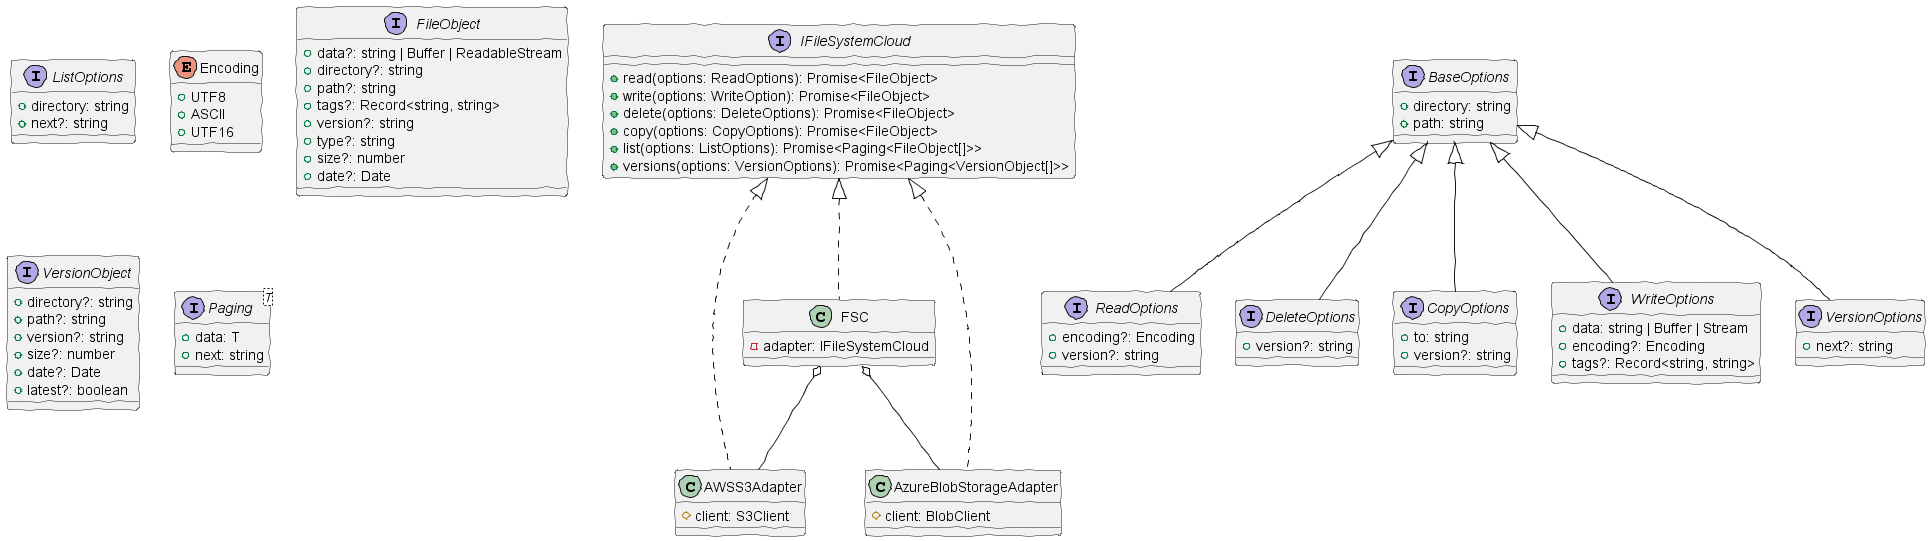
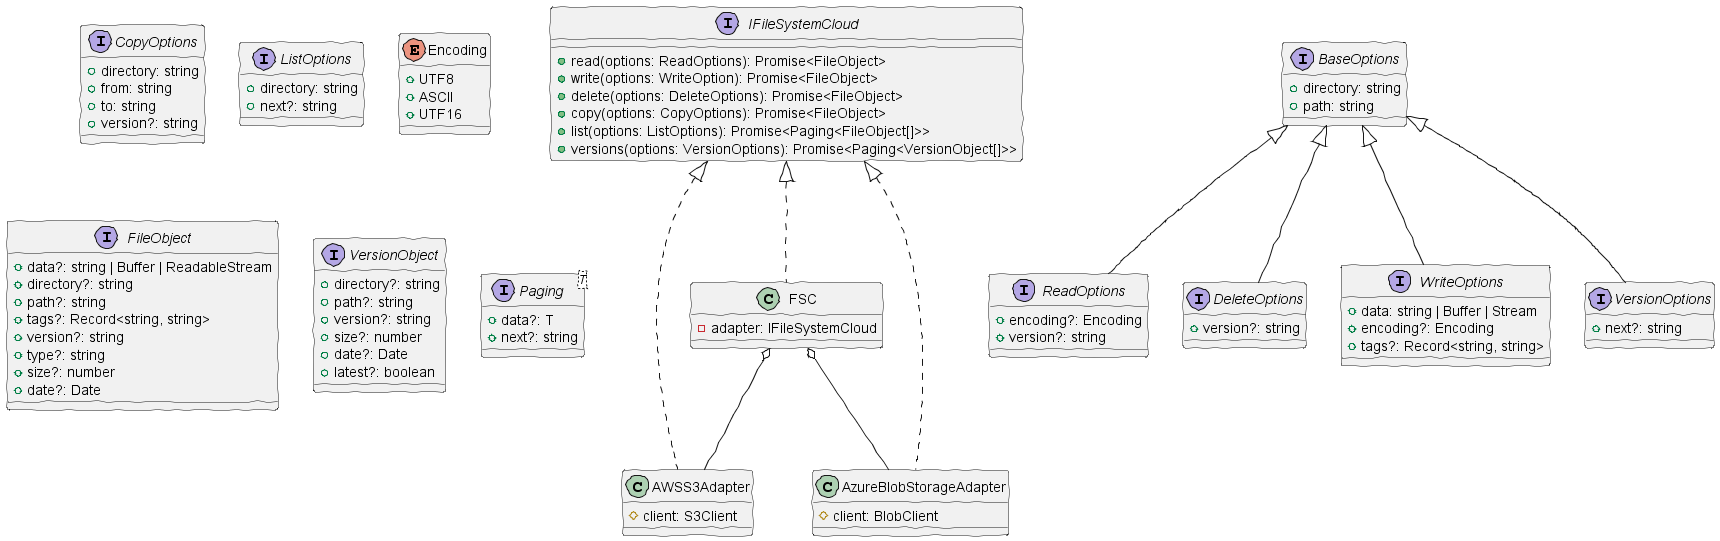
chore: Updating diagram.

diff --git a/documents/CLASS-DIAGRAM.md b/documents/CLASS-DIAGRAM.md
@@ -27,7 +27,9 @@ interface DeleteOptions extends BaseOptions {
  +version?: string
 }
 
-interface CopyOptions extends BaseOptions {
+interface CopyOptions {
+ +directory: string
+ +from: string
  +to: string
  +version?: string
 }
@@ -74,8 +76,8 @@ interface VersionObject {
 }
 
 interface Paging<T> {
- +data: T
- +next: string
+ +data?: T
+ +next?: string
 }
 
 class FSC implements IFileSystemCloud {
